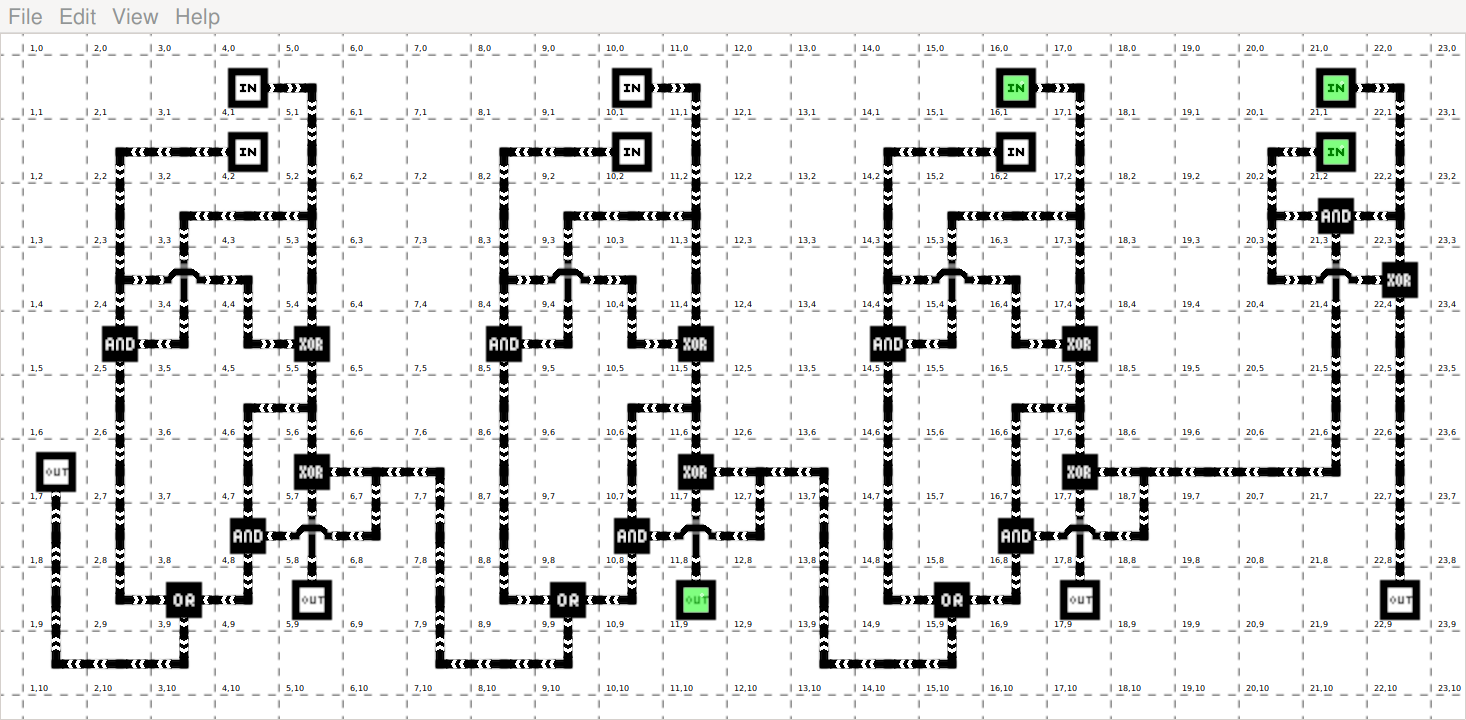
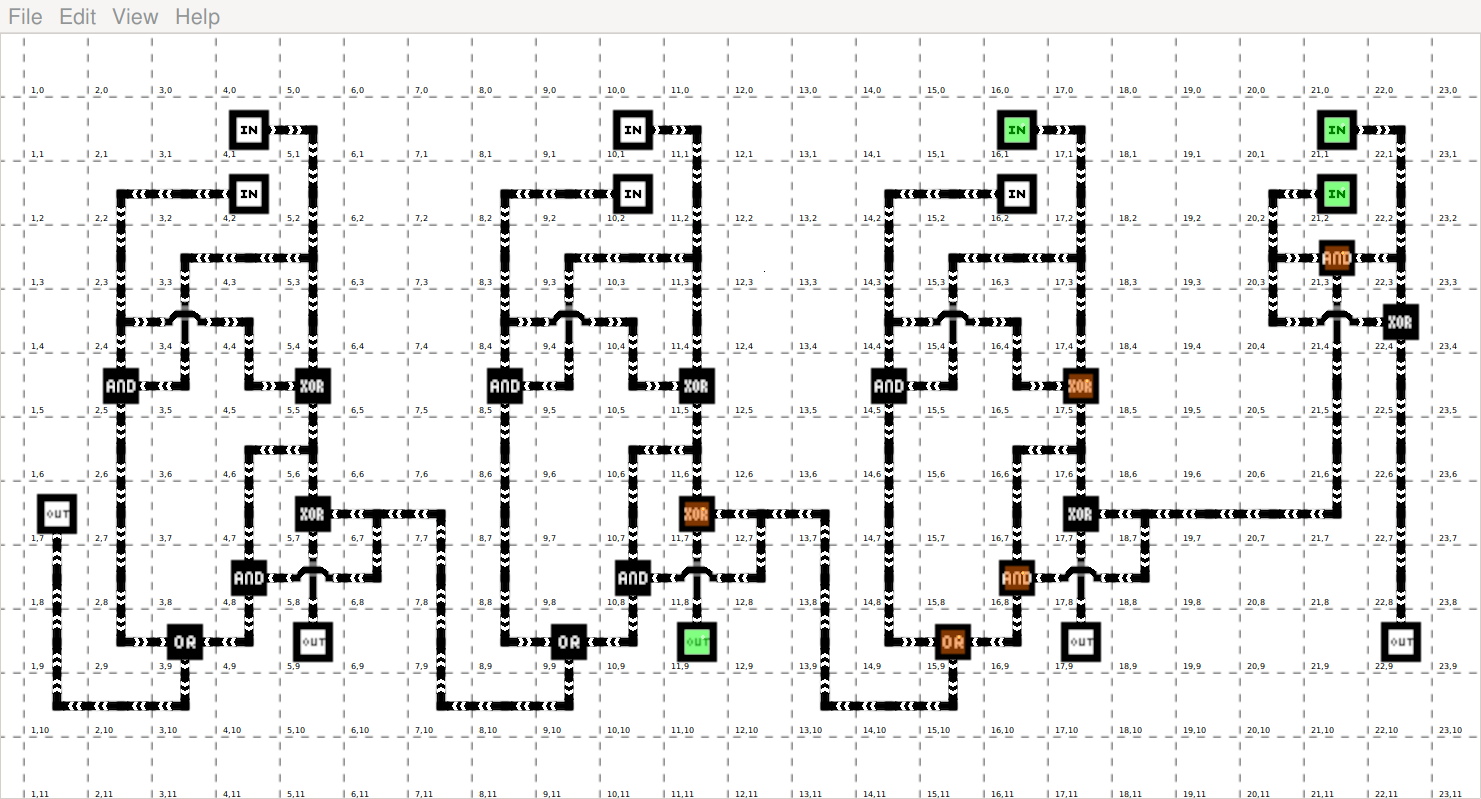
highlighting of actived logic gates, code tidy

diff --git a/src/callbacks.c b/src/callbacks.c
@@ -26,61 +26,57 @@ gboolean on_fileSave_activate(GtkWidget *widget, gpointer data)
 {
     (void)widget;
     (void)data;
-    
+
     GtkWidget *dialog;
-GtkFileChooser *chooser;
-GtkFileChooserAction action = GTK_FILE_CHOOSER_ACTION_SAVE;
-gint res;
+    GtkFileChooser *chooser;
+    GtkFileChooserAction action = GTK_FILE_CHOOSER_ACTION_SAVE;
+    gint res;
 
-dialog = gtk_file_chooser_dialog_new ("Save File",
-                                      (GtkWindow*)data,
-                                      action,
-                                      "_Cancel",
-                                      GTK_RESPONSE_CANCEL,
-                                      "_Save",
-                                      GTK_RESPONSE_ACCEPT,
-                                      NULL);
-chooser = GTK_FILE_CHOOSER (dialog);
+    dialog = gtk_file_chooser_dialog_new ("Save File",
+                                          (GtkWindow*)data,
+                                          action,
+                                          "_Cancel",
+                                          GTK_RESPONSE_CANCEL,
+                                          "_Save",
+                                          GTK_RESPONSE_ACCEPT,
+                                          NULL);
+    chooser = GTK_FILE_CHOOSER (dialog);
 
-gtk_file_chooser_set_do_overwrite_confirmation (chooser, TRUE);
+    gtk_file_chooser_set_do_overwrite_confirmation (chooser, TRUE);
 
 
-  gtk_file_chooser_set_current_name (chooser,
-                                     "./examples/*");
+    gtk_file_chooser_set_current_name (chooser,
+                                       "./examples/*");
 
-res = gtk_dialog_run (GTK_DIALOG (dialog));
-if (res == GTK_RESPONSE_ACCEPT)
-  {
-    char *filename;
+    res = gtk_dialog_run (GTK_DIALOG (dialog));
+    if (res == GTK_RESPONSE_ACCEPT) {
+        char *filename;
 
-    filename = gtk_file_chooser_get_filename (chooser);
-    
-       FILE * fp;
+        filename = gtk_file_chooser_get_filename (chooser);
 
-   fp = fopen (filename, "w");
+        FILE * fp;
 
-   fprintf(fp,"<grid>\n\n");
+        fp = fopen (filename, "w");
 
-    char str[1024];
-    for(int y=0; y<gridHeight; y++) {
-        for(int x=0; x<gridWidth; x++) {
-            cellStruct* c = cells[x + (y * gridWidth)];
-            if (c->type!=c_Empty) {
-                cellAsXml(c, str);
-                fprintf(fp,"%s",str);
+        fprintf(fp, "<grid>\n\n");
+
+        char str[1024];
+        for(int y = 0; y < gridHeight; y++) {
+            for(int x = 0; x < gridWidth; x++) {
+                cellStruct* c = cells[x + (y * gridWidth)];
+                if (c->type != c_Empty) {
+                    cellAsXml(c, str);
+                    fprintf(fp, "%s", str);
+                }
             }
         }
+        fprintf(fp, "\n</grid>\n");
+        fclose(fp);
+
+        g_free (filename);
     }
-    fprintf(fp,"\n</grid>\n");
-   fclose(fp);
 
-    g_free (filename);
-  }
-
-gtk_widget_destroy (dialog);
-    
-    
-    
+    gtk_widget_destroy (dialog);
 
     return FALSE;
 }
@@ -235,6 +231,9 @@ draw_callback (GtkWidget *widget, cairo_t *cr, gpointer data)
     if (cell->activated == 1 && (cell->type == c_In || cell->type == c_Out)) {
         //if (cell->activated == 1) {
         gdk_cairo_set_source_pixbuf (cr, cellImages[c_On], -32, -32);
+        cairo_paint(cr);
+    } else if (cell->activated == 1) {
+        gdk_cairo_set_source_pixbuf (cr, cellImages[c_Lon], -32, -32);
         cairo_paint(cr);
     }
 

diff --git a/src/editDialog.c b/src/editDialog.c
@@ -222,7 +222,7 @@ void validateCell()
             strcpy(errStr, "exactly 1 output is needed\0");
         }
     }
-    
+
     if (edCell->type == c_In) {
         if (i != 0) {
             valid = 0;
@@ -233,7 +233,7 @@ void validateCell()
             strcpy(errStr, "exactly 1 output is needed\0");
         }
     }
-    
+
     if (edCell->type == c_Not) {
         if (i != 1) {
             valid = 0;
@@ -242,9 +242,9 @@ void validateCell()
         if (o != 1) {
             valid = 0;
             strcpy(errStr, "exactly 1 output is needed\0");
-        }        
+        }
     }
-    
+
     if (edCell->type == c_Out) {
         if (i != 1) {
             valid = 0;
@@ -255,7 +255,7 @@ void validateCell()
             strcpy(errStr, "exactly 0 outputs are needed\0");
         }
     }
-    
+
     if (edCell->type == c_Cross) {
         if (i != 2) {
             valid = 0;
@@ -265,24 +265,24 @@ void validateCell()
             valid = 0;
             strcpy(errStr, "exactly 2 outputs are needed\0");
         }
-        int vi=0;
-        int vo=0;
-        vi=edCell->inputs[0]+edCell->inputs[2];
-        vo=edCell->outputs[0]+edCell->outputs[2];
-        if (vi!=1 && vo!=1) {
+        int vi = 0;
+        int vo = 0;
+        vi = edCell->inputs[0] + edCell->inputs[2];
+        vo = edCell->outputs[0] + edCell->outputs[2];
+        if (vi != 1 && vo != 1) {
             valid = 0;
             strcpy(errStr, "vertical wire needs exactly 1 input and output\0");
         }
-        int hi=0;
-        int ho=0;
-        hi=edCell->inputs[3]+edCell->inputs[1];
-        ho=edCell->outputs[1]+edCell->outputs[3];
-        if (hi!=1 && ho!=1) {
+        int hi = 0;
+        int ho = 0;
+        hi = edCell->inputs[3] + edCell->inputs[1];
+        ho = edCell->outputs[1] + edCell->outputs[3];
+        if (hi != 1 && ho != 1) {
             valid = 0;
             strcpy(errStr, "horizontal wire needs exactly 1 input and output\0");
         }
     }
-    
+
     if (edCell->type == c_Wire) {
         if (i != 1) {
             valid = 0;
@@ -291,7 +291,7 @@ void validateCell()
         if (o == 0) {
             valid = 0;
             strcpy(errStr, "more than 1 output is needed\0");
-        }        
+        }
     }
 
     if (valid) {

diff --git a/src/cells.c b/src/cells.c
@@ -5,7 +5,7 @@
 int doLogic = 0;
 
 // images used to draw inside cells
-GdkPixbuf* cellImages[10];
+GdkPixbuf* cellImages[13];
 
 cellStruct *cells[gridWidth * gridHeight];
 
@@ -143,7 +143,7 @@ void clearGrid()
     c_Not = 6,
     c_Out = 7,
     c_Wire = 10,
-    
+
     <tile>
         <pos x="1" y="3" />
         <type logic="In" />
@@ -151,18 +151,19 @@ void clearGrid()
         <inputs north="false" east="false" south="false" west="false" />
     </tile>
     */
-void cellAsXml(cellStruct* c, char* cellStr) {
-    const char* tf[]={"false","true"};
-    const char* lt[]={"And","In","Or","Xor","","Cross","Not","Out","","","Wire"};
+void cellAsXml(cellStruct* c, char* cellStr)
+{
+    const char* tf[] = {"false", "true"};
+    const char* lt[] = {"And", "In", "Or", "Xor", "", "Cross", "Not", "Out", "", "", "Wire"};
     char p1[32];
     char p2[32];
     char p3[160];
     char p4[160];
-    sprintf(p1,"<tile>\n\t<pos x=\"%i\" y=\"%i\" />\n",c->x,c->y);
-    sprintf(p2,"\t<type logic=\"%s\" />\n",lt[c->type]);
-    sprintf(p3,"\t<outputs north=\"%s\" east=\"%s\" south=\"%s\" west=\"%s\" />\n",
-        tf[c->outputs[0]],tf[c->outputs[1]],tf[c->outputs[2]],tf[c->outputs[3]]);
-    sprintf(p4,"\t<inputs north=\"%s\" east=\"%s\" south=\"%s\" west=\"%s\" />\n</tile>\n\n",
-        tf[c->inputs[0]],tf[c->inputs[1]],tf[c->inputs[2]],tf[c->inputs[3]]);
-    sprintf(cellStr,"%s%s%s%s",p1,p2,p3,p4);
+    sprintf(p1, "<tile>\n\t<pos x=\"%i\" y=\"%i\" />\n", c->x, c->y);
+    sprintf(p2, "\t<type logic=\"%s\" />\n", lt[c->type]);
+    sprintf(p3, "\t<outputs north=\"%s\" east=\"%s\" south=\"%s\" west=\"%s\" />\n",
+            tf[c->outputs[0]], tf[c->outputs[1]], tf[c->outputs[2]], tf[c->outputs[3]]);
+    sprintf(p4, "\t<inputs north=\"%s\" east=\"%s\" south=\"%s\" west=\"%s\" />\n</tile>\n\n",
+            tf[c->inputs[0]], tf[c->inputs[1]], tf[c->inputs[2]], tf[c->inputs[3]]);
+    sprintf(cellStr, "%s%s%s%s", p1, p2, p3, p4);
 }

diff --git a/include/cells.h b/include/cells.h
@@ -25,6 +25,7 @@ enum cellType {
     c_outWire = 9, // not an actual type, done for pixmap index
     c_Wire = 10, // just a connection
     c_BG = 11,
+    c_Lon = 12, // not an actual type, done for pixmap index
     c_Empty = 255
 };
 
@@ -47,7 +48,7 @@ typedef struct {
 } cellTarget;
 
 
-extern GdkPixbuf* cellImages[10];
+extern GdkPixbuf* cellImages[13];
 extern cellStruct *cells[gridWidth * gridHeight];
 
 void freeTargets(cellStruct* c);

diff --git a/src/main.c b/src/main.c
@@ -48,6 +48,7 @@ int main(int argc, char *argv[])
     cellImages[c_inWire] = loadCellImage("img/inwire.png");
     cellImages[c_outWire] = loadCellImage("img/outwire.png");
     cellImages[c_BG] = loadCellImage("img/bg.png");
+    cellImages[c_Lon] = loadCellImage("img/lon.png");
 
     // for now the graphics icons are at a fixed 64x64 size
     gtk_widget_set_size_request (grid, 64 * gridWidth, 64 * gridHeight);
